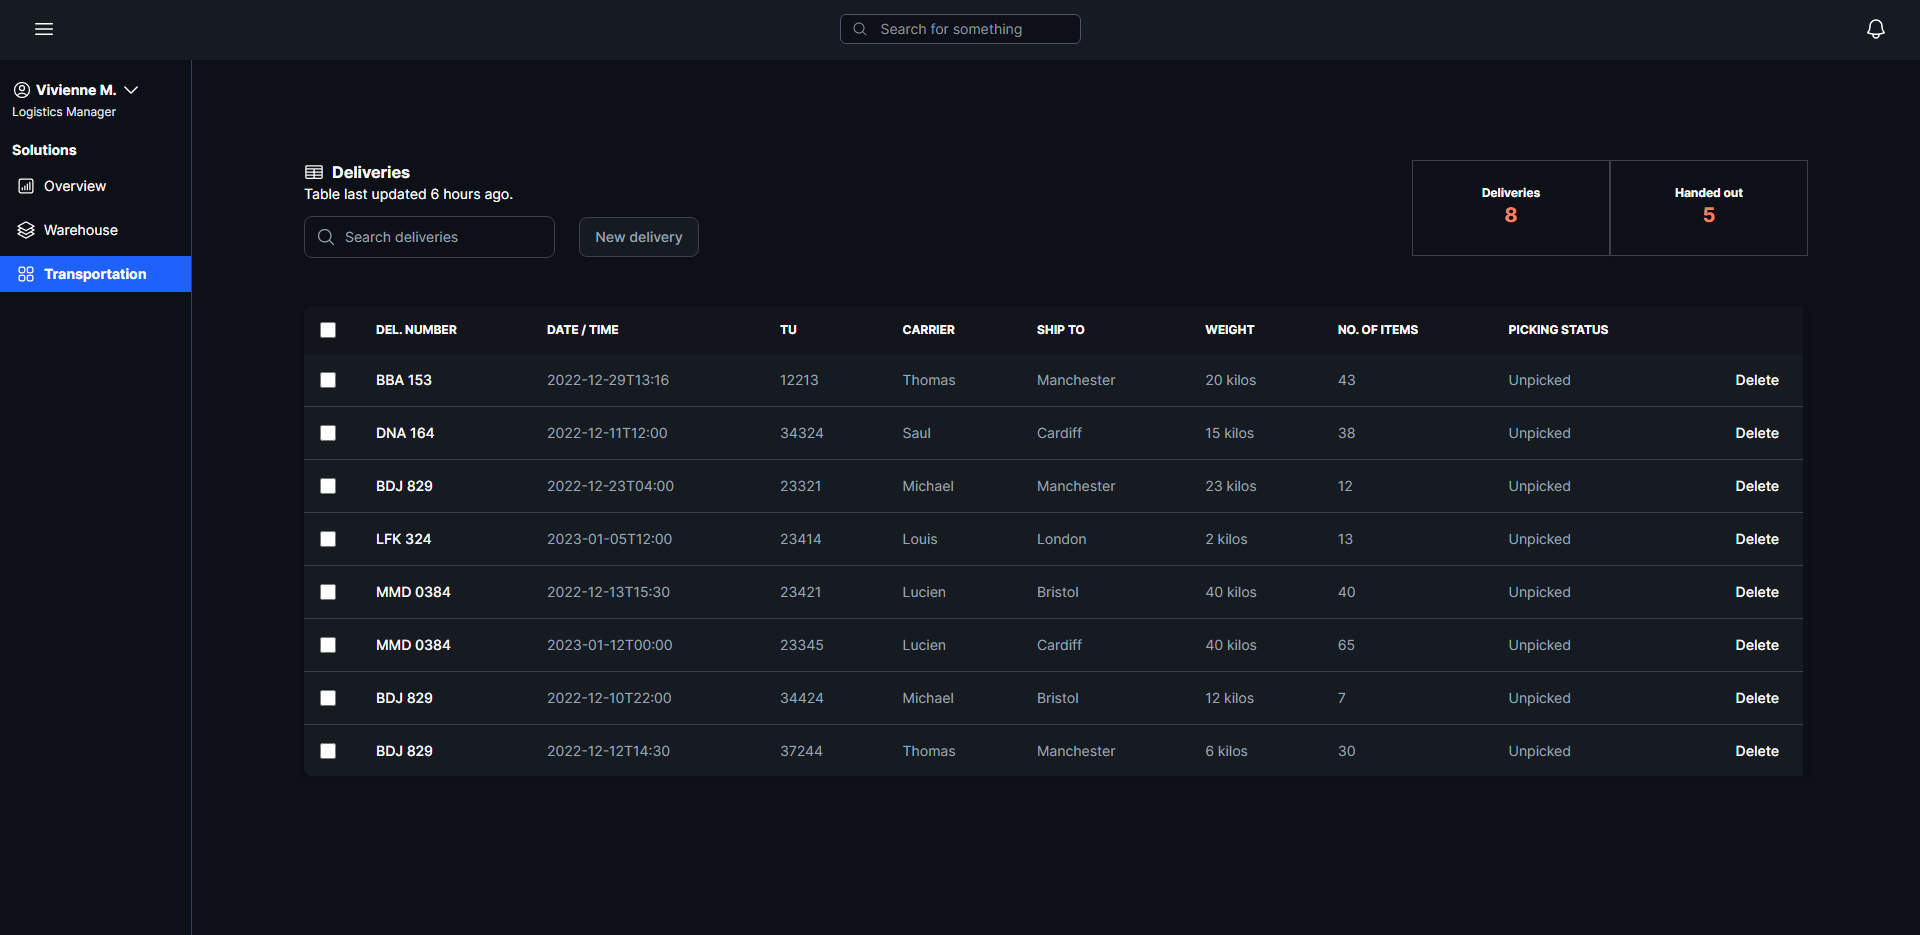
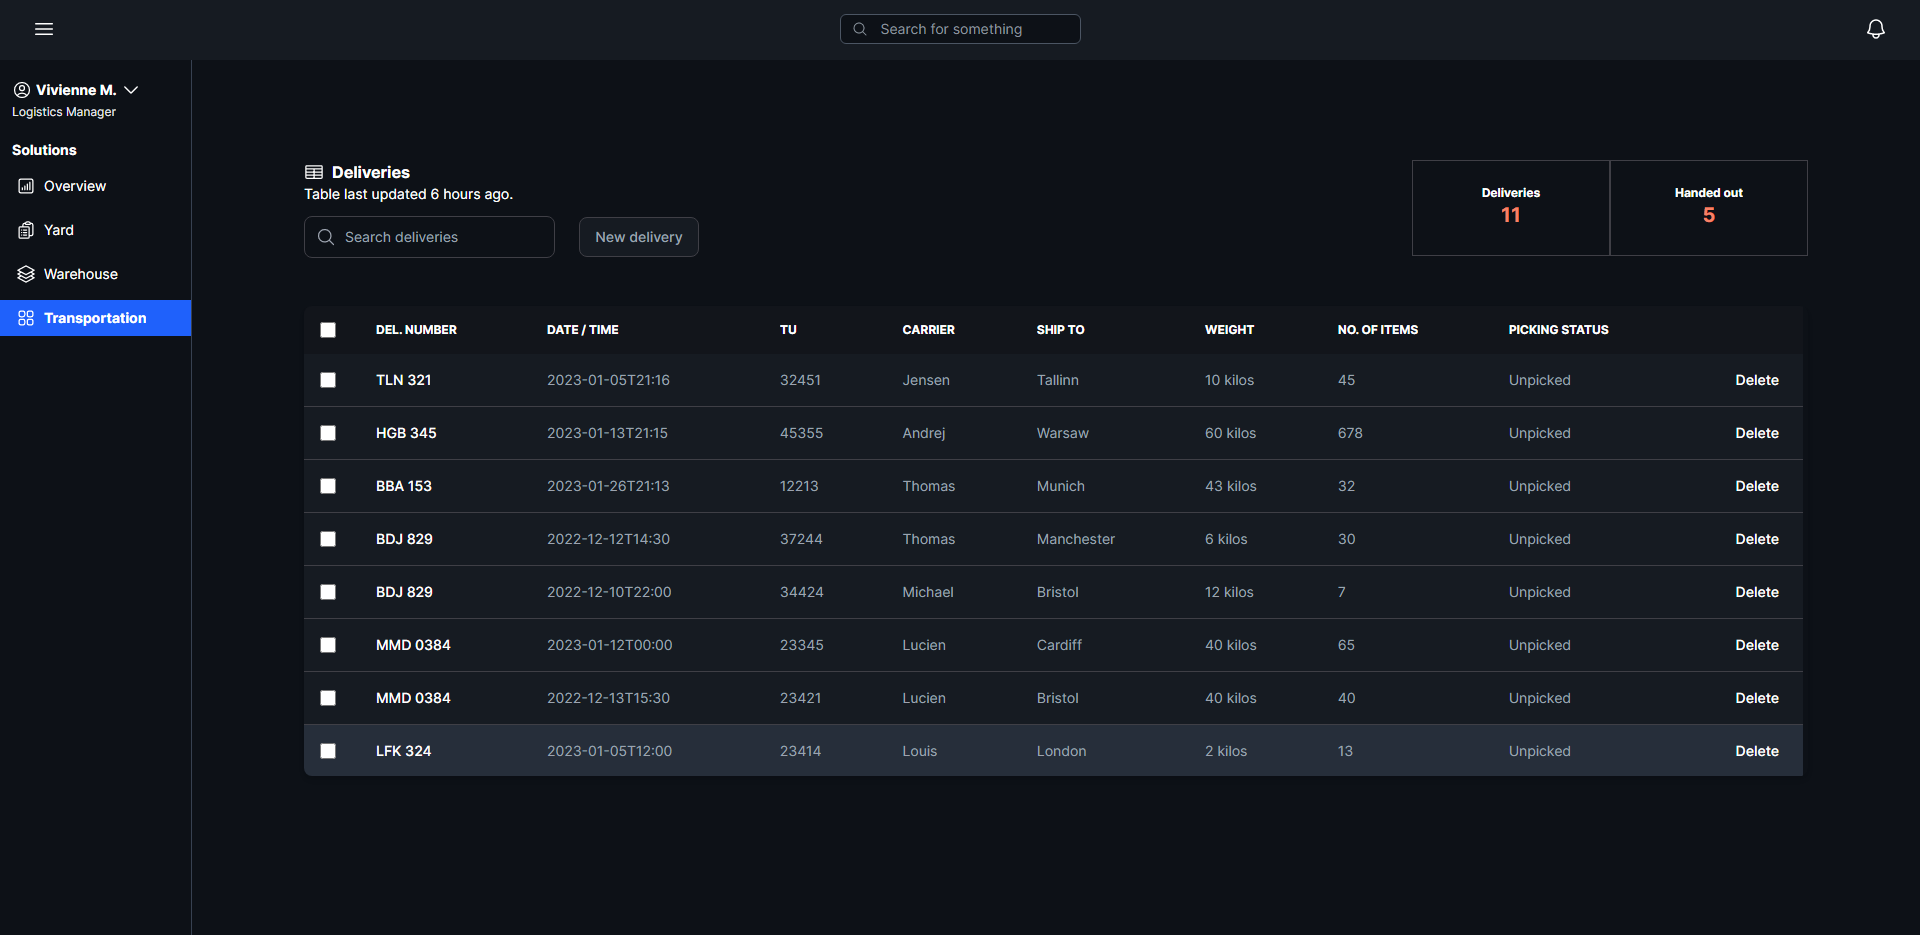
Updating interface

diff --git a/client/pages/index.tsx b/client/pages/index.tsx
@@ -2,7 +2,11 @@ import Head from "next/head";
 import Link from "next/link";
 
 import { Nav } from "./components/Nav";
-import { ArrowUturnRightIcon } from "@heroicons/react/24/outline";
+import {
+  ClipboardDocumentListIcon,
+  Square3Stack3DIcon,
+  Squares2X2Icon,
+} from "@heroicons/react/24/outline";
 import { EllipsisVerticalIcon } from "@heroicons/react/24/solid";
 
 const stats = {
@@ -50,6 +54,60 @@ export default function Home() {
           </div>
 
           <div className="flex flex-col gap-8">
+            <div>
+              <h1 className="pb-1 text-xl">Solutions</h1>
+              <div className="mb-4 h-[1px] w-[100px] bg-gray-400"></div>
+              <div className="flex gap-8">
+                <Link
+                  href="/tms/deliveries"
+                  className="block h-[160px] w-[475px] rounded-lg border border-zinc-800 bg-[#161b22] py-8 px-8 shadow-md transition-all duration-200 hover:scale-105 hover:shadow-md"
+                >
+                  <div className="flex justify-between">
+                    <h1 className="text-md mb-2 flex gap-2 font-bold tracking-tight text-white">
+                      <Squares2X2Icon className="h-6 w-6" />
+                      Transportation Management System (TMS)
+                    </h1>
+                  </div>
+                  <p className="text-justify text-sm font-normal text-gray-400">
+                    Solution that helps to plan, execute, and optimize the
+                    physical movement of goods, both incoming and outgoing, and
+                    making sure the shipment is compliant.
+                  </p>
+                </Link>
+                <Link
+                  href="wms/inventory"
+                  className="block h-[160px] w-[475px] rounded-lg border border-zinc-800 bg-[#161b22] py-8 px-8 shadow-md transition-all duration-200 hover:scale-105 hover:shadow-md"
+                >
+                  <div className="flex justify-between">
+                    <h5 className="text-md mb-2 flex gap-2 font-bold tracking-tight text-white">
+                      <Square3Stack3DIcon className="h-6 w-6" />
+                      Warehouse Management System (WMS)
+                    </h5>
+                  </div>
+                  <p className="text-justify text-sm font-normal text-gray-400">
+                    Solution that offers visibility into a business entire
+                    inventory and manages supply chain operations from the
+                    distribution center to the store shelf.
+                  </p>
+                </Link>
+                <Link
+                  href="/404"
+                  className="block h-[160px] w-[475px] rounded-lg border border-zinc-800 bg-[#161b22] py-8 px-8 shadow-md transition-all duration-200 hover:scale-105 hover:shadow-md"
+                >
+                  <div className="flex justify-between">
+                    <h5 className="text-md mb-2 flex gap-2 font-bold tracking-tight text-white">
+                      <ClipboardDocumentListIcon className="h-6 w-6" />
+                      Yard Management System (YMS)
+                    </h5>
+                  </div>
+                  <p className="text-justify text-sm font-normal text-gray-400">
+                    Solution designed to oversee the movement of trucks and
+                    trailers in the yard of a manufacturing facility, warehouse,
+                    or distribution center.
+                  </p>
+                </Link>
+              </div>
+            </div>
             <div className="flex flex-col">
               <h1 className="pb-1 text-xl">Revenue</h1>
               <div className="mb-4 h-[1px] w-[100px] bg-gray-400"></div>
@@ -63,7 +121,7 @@ export default function Home() {
                     >
                       <div key={stat.title}>
                         <h1
-                          className="text-md flex justify-between tracking-tight text-white"
+                          className="text-md flex justify-between tracking-tight text-gray-400"
                           key={stat.title}
                         >
                           {stat.title}
@@ -81,42 +139,6 @@ export default function Home() {
                     </div>
                   );
                 })}
-              </div>
-            </div>
-            <div>
-              <h1 className="pb-1 text-xl">Solutions</h1>
-              <div className="mb-4 h-[1px] w-[100px] bg-gray-400"></div>
-              <div className="flex gap-8">
-                <Link
-                  href="/tms/deliveries"
-                  className="block h-[160px] w-[420px] rounded-lg border border-zinc-800 bg-[#161b22] py-8 px-8 shadow-md transition-all duration-200 hover:scale-105 hover:shadow-md"
-                >
-                  <div className="flex justify-between">
-                    <h5 className="text-md mb-2 font-bold tracking-tight text-white">
-                      Transportation Management System (TMS)
-                    </h5>
-                  </div>
-                  <p className="text-justify text-sm font-normal text-gray-400">
-                    Solution that helps to plan, execute, and optimize the
-                    physical movement of goods, both incoming and outgoing, and
-                    making sure the shipment is compliant.
-                  </p>
-                </Link>
-                <Link
-                  href="wms/inventory"
-                  className="block h-[160px] w-[420px] rounded-lg border border-zinc-800 bg-[#161b22] py-8 px-8 shadow-md transition-all duration-200 hover:scale-105 hover:shadow-md"
-                >
-                  <div className="flex justify-between">
-                    <h5 className="text-md mb-2 font-bold tracking-tight text-white">
-                      Warehouse Management System (WMS)
-                    </h5>
-                  </div>
-                  <p className="text-justify text-sm font-normal text-gray-400">
-                    Solution that offers visibility into a business entire
-                    inventory and manages supply chain operations from the
-                    distribution center to the store shelf.
-                  </p>
-                </Link>
               </div>
             </div>
           </div>

diff --git a/client/pages/tms/deliveries.tsx b/client/pages/tms/deliveries.tsx
@@ -43,7 +43,7 @@ export const getServerSideProps = async () => {
 };
 
 const deletionNotify = () =>
-  toast.success("Successfully deleted!", {
+  toast.success("Delivery deleted!", {
     position: "bottom-right",
     style: {
       borderRadius: "10px",
@@ -174,7 +174,7 @@ export default function Transportation(props: CountProps) {
                 <div>
                   <label
                     htmlFor="carNumber"
-                    className="text-sm font-semibold text-white"
+                    className="text-xs font-semibold text-white"
                   >
                     Del. Number
                   </label>
@@ -189,7 +189,7 @@ export default function Transportation(props: CountProps) {
                 <div>
                   <label
                     htmlFor="dateTime"
-                    className="text-sm font-semibold text-white"
+                    className="text-xs font-semibold text-white"
                   >
                     Date / Time
                   </label>
@@ -207,7 +207,7 @@ export default function Transportation(props: CountProps) {
                 <div>
                   <label
                     htmlFor="tu"
-                    className="text-sm font-semibold text-white"
+                    className="text-xs font-semibold text-white"
                   >
                     TU
                   </label>
@@ -222,7 +222,7 @@ export default function Transportation(props: CountProps) {
                 <div>
                   <label
                     htmlFor="carrier"
-                    className="text-sm font-semibold text-white"
+                    className="text-xs font-semibold text-white"
                   >
                     Carrier
                   </label>
@@ -239,7 +239,7 @@ export default function Transportation(props: CountProps) {
                 <div>
                   <label
                     htmlFor="shipTo"
-                    className="text-sm font-semibold text-white"
+                    className="text-xs font-semibold text-white"
                   >
                     Ship to
                   </label>
@@ -254,7 +254,7 @@ export default function Transportation(props: CountProps) {
                 <div>
                   <label
                     htmlFor="weight"
-                    className="text-sm font-semibold text-white"
+                    className="text-xs font-semibold text-white"
                   >
                     Weight
                   </label>
@@ -271,7 +271,7 @@ export default function Transportation(props: CountProps) {
                 <div>
                   <label
                     htmlFor="numberOfItems"
-                    className="text-sm font-semibold text-white"
+                    className="text-xs font-semibold text-white"
                   >
                     Number of items
                   </label>
@@ -286,7 +286,7 @@ export default function Transportation(props: CountProps) {
                 <div>
                   <label
                     htmlFor="pickingStatus"
-                    className="text-sm font-semibold text-white"
+                    className="text-xs font-semibold text-white"
                   >
                     Status
                   </label>
@@ -303,14 +303,14 @@ export default function Transportation(props: CountProps) {
 
             <div className="mt-10 flex justify-end gap-4">
               <Dialog.Close>
-                <button className="h flex h-[40px] w-[120px] items-center justify-center gap-1 rounded-lg border border-zinc-700 bg-[#0d1117] pt-0  text-sm font-bold text-white duration-300  hover:bg-[#131922] hover:outline-none hover:transition-colors">
+                <button className="h flex h-[40px] w-[120px] items-center justify-center gap-1 rounded-lg border border-zinc-700 bg-[#0d1117] text-sm font-medium text-white duration-300  hover:bg-[#131922] hover:outline-none hover:transition-colors">
                   Cancel
                 </button>
               </Dialog.Close>
 
               <button
                 type="submit"
-                className="flex h-[40px] w-[120px] items-center justify-center gap-1 rounded-lg border border-zinc-700 bg-[#0d1117] pt-0 text-sm font-bold text-white duration-300  hover:border-[#1f61fb] hover:bg-[#131922] hover:text-white  hover:outline-none hover:ring-1 hover:ring-[#1f61fb] hover:transition-colors"
+                className="flex h-[40px] w-[120px] items-center justify-center gap-1 rounded-lg border border-zinc-700 bg-[#0d1117] text-sm font-medium text-white duration-300  hover:border-[#1f61fb] hover:bg-[#131922] hover:text-white  hover:outline-none hover:ring-1 hover:ring-[#1f61fb] hover:transition-colors"
               >
                 Add deliver
               </button>

diff --git a/client/pages/wms/inventory.tsx b/client/pages/wms/inventory.tsx
@@ -41,7 +41,7 @@ export const getServerSideProps = async () => {
 };
 
 const deletionNotify = () =>
-  toast.success("Successfully deleted!", {
+  toast.success("Product deleted!", {
     position: "bottom-right",
     style: {
       borderRadius: "10px",
@@ -153,7 +153,7 @@ export default function Warehouse(props: CountProps) {
     return open ? (
       <Dialog.Portal>
         <Dialog.Overlay className="fixed inset-0 bg-black/60" />
-        <Dialog.Content className="fixed top-1/2 left-1/2 w-[450px] -translate-x-1/2 -translate-y-1/2 rounded-lg border border-zinc-700 bg-[#0d1117] py-8 px-10 text-white shadow-lg shadow-black/25">
+        <Dialog.Content className="fixed top-1/2 left-1/2 w-[435px] -translate-x-1/2 -translate-y-1/2 rounded-lg border border-zinc-700 bg-[#0d1117] py-8 px-10 text-white shadow-lg shadow-black/25">
           <Dialog.Title className="flex items-center gap-1 text-xl">
             New product
             <PlusSmallIcon className="h-7 w-7" />
@@ -167,7 +167,7 @@ export default function Warehouse(props: CountProps) {
                 <div>
                   <label
                     htmlFor="product"
-                    className="text-sm font-semibold text-white"
+                    className="text-xs font-semibold text-white"
                   >
                     Product
                   </label>
@@ -182,7 +182,7 @@ export default function Warehouse(props: CountProps) {
                 <div>
                   <label
                     htmlFor="category"
-                    className="text-sm font-semibold text-white"
+                    className="text-xs font-semibold text-white"
                   >
                     Category
                   </label>
@@ -199,7 +199,7 @@ export default function Warehouse(props: CountProps) {
                 <div>
                   <label
                     htmlFor="sku"
-                    className="text-sm font-semibold text-white"
+                    className="text-xs font-semibold text-white"
                   >
                     SKU
                   </label>
@@ -214,7 +214,7 @@ export default function Warehouse(props: CountProps) {
                 <div>
                   <label
                     htmlFor="stock"
-                    className="text-sm font-semibold text-white"
+                    className="text-xs font-semibold text-white"
                   >
                     Stock
                   </label>
@@ -232,7 +232,7 @@ export default function Warehouse(props: CountProps) {
                 <div>
                   <label
                     htmlFor="price"
-                    className="text-sm font-semibold text-white"
+                    className="text-xs font-semibold text-white"
                   >
                     Price
                   </label>
@@ -247,7 +247,7 @@ export default function Warehouse(props: CountProps) {
                 <div>
                   <label
                     htmlFor="rating"
-                    className="text-sm font-semibold text-white"
+                    className="text-xs font-semibold text-white"
                   >
                     Rating
                   </label>
@@ -263,14 +263,14 @@ export default function Warehouse(props: CountProps) {
             </div>
             <div className="mt-10 flex justify-end gap-4">
               <Dialog.Close>
-                <button className="flex h-[40px] w-[120px] items-center justify-center gap-1 rounded-lg border border-zinc-700 bg-[#0d1117] pt-0 text-sm font-bold text-white duration-300  hover:bg-[#131922] hover:outline-none hover:transition-colors">
+                <button className="flex h-[40px] w-[120px] items-center justify-center gap-1 rounded-lg border border-zinc-700 bg-[#0d1117] text-sm font-medium text-white duration-300  hover:bg-[#131922] hover:outline-none hover:transition-colors">
                   Cancel
                 </button>
               </Dialog.Close>
 
               <button
                 type="submit"
-                className="flex h-[40px] w-[120px] items-center justify-center gap-1 rounded-lg border border-zinc-700 bg-[#0d1117] pt-0 text-sm font-bold text-white duration-300  hover:border-[#1f61fb] hover:bg-[#131922] hover:text-white  hover:outline-none hover:ring-1 hover:ring-[#1f61fb] hover:transition-colors"
+                className="flex h-[40px] w-[120px] items-center justify-center gap-1 rounded-lg border border-zinc-700 bg-[#0d1117]  text-sm font-medium text-white duration-300  hover:border-[#1f61fb] hover:bg-[#131922] hover:text-white  hover:outline-none hover:ring-1 hover:ring-[#1f61fb] hover:transition-colors"
               >
                 Add product
               </button>

diff --git a/client/pages/components/Nav.tsx b/client/pages/components/Nav.tsx
@@ -9,6 +9,7 @@ import {
   Square3Stack3DIcon,
   Squares2X2Icon,
   UserCircleIcon,
+  ClipboardDocumentListIcon,
 } from "@heroicons/react/24/outline";
 
 export function Nav() {
@@ -58,7 +59,19 @@ export function Nav() {
                   <span className="ml-2 mr-2 text-sm">Overview</span>
                 </Link>
               </div>
-
+              <div>
+                <Link
+                  href="/404"
+                  className={
+                    router.pathname == "/404"
+                      ? "mt-2 flex items-center bg-[#1f61fb] p-2 text-base font-bold text-white"
+                      : "mt-2 flex items-center p-2 text-base font-normal text-white hover:bg-[#1f61fb]"
+                  }
+                >
+                  <ClipboardDocumentListIcon className="ml-2 h-5 w-5 text-white" />
+                  <span className="ml-2 text-sm">Yard</span>
+                </Link>
+              </div>
               <div>
                 <Link
                   href="/wms/inventory"

diff --git a/client/pages/components/Input.tsx b/client/pages/components/Input.tsx
@@ -7,7 +7,7 @@ export function Input(props: InputProps) {
     <input
       {...props}
       required
-      className="mt-1 block w-[160px] rounded-lg border border-zinc-700 bg-[#0d1117] p-2 pl-4  text-sm text-white placeholder-gray-400 focus:border-[#1f61fb] focus:outline-none focus:ring-1 focus:ring-[#1f61fb] sm:text-sm"
+      className="mt-1 block w-[160px] rounded-md border border-zinc-700 bg-[#0d1117] py-1 pl-3 text-sm text-white placeholder-gray-400 focus:border-[#1f61fb] focus:outline-none focus:ring-1 focus:ring-[#1f61fb] sm:text-sm"
     />
   );
 }
